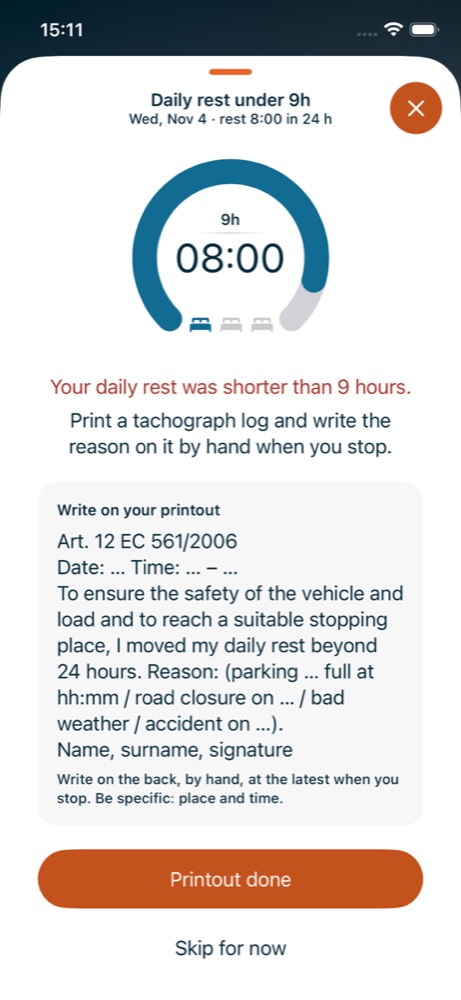
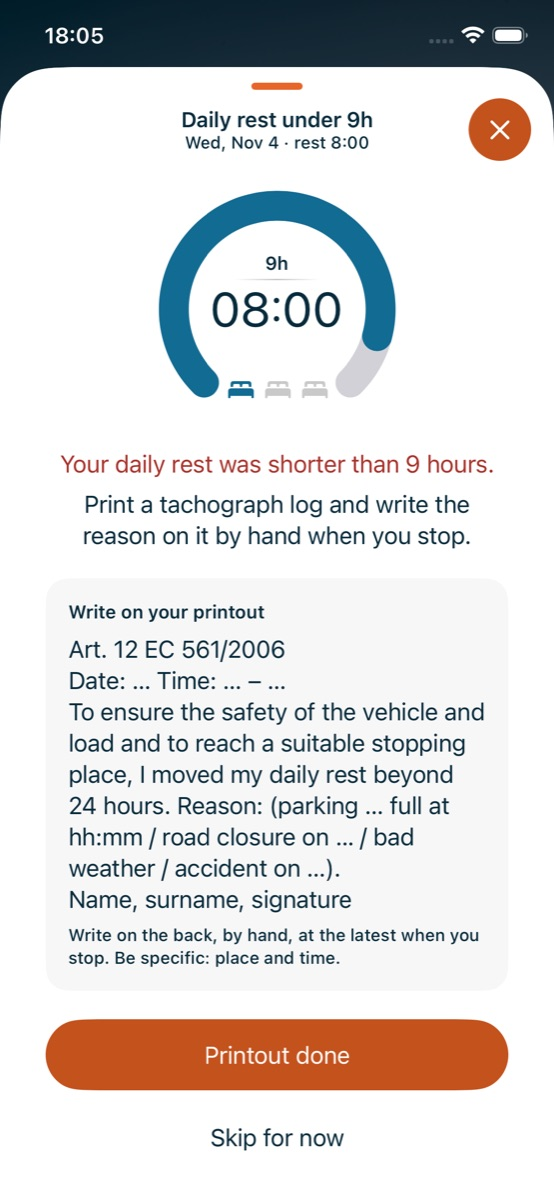
fix: rest after a shift past its limit is judged in full (decision 22)
A duty period past its 13/15 h limit is now one deviation for its window.
The rest after it is measured from close to the next start, not clipped by
the 24 h window: under 9 h (a reduction left) or under 11 h (none left) is a
second deviation, otherwise none. A rest still running is not judged. Shifts
within their limit keep the R-D02 window rule. The reduced-rest counter is
unchanged.

Copy: the short-rest title and red line use the required hours ("under 11h"
when no reduction is left, pending approval); "in 24 h" is dropped from the
sheet subtitle.

Tests: Serhii's 29.10 case (9:07 as the third reduced rest → 1 deviation,
counter 3), 7:00 → 2, 9:07 with none left → 2, within-limit shift keeps the
window result, running rest not judged; Day summary count matches the
Violations tab. V04/V10/weekly-rest tests rewritten for the new rule.

Changed region(s): [[0.2733, 0.093, 0.7289, 0.124], [0.0911, 0.0, 0.1822, 0.062]]

diff --git a/TachoBookTests/ViolationRulesTests.swift b/TachoBookTests/ViolationRulesTests.swift
@@ -121,18 +121,14 @@ struct ViolationRulesTests {
 
     // MARK: - Daily rest under 9 h in its window (R-D02, R-D07)
 
-    @Test func v04RestShortOfNineHoursByOneMinute() throws {
-        // A = 12.10 06:00; rest 21:01 → 13.10 08:01: only 8:59 before D = 13.10 06:00.
+    @Test func v04AfterAShiftPastItsLimitTheWholeRestCounts() throws {
+        // A = 12.10 06:00; rest 21:01 → 13.10 08:01: 8:59 before D = 13.10 06:00, 11:00 in full. The late close
+        // passes the 15 h limit by a minute: one deviation; the rest is judged in full (decision 22, not V04).
         let anchor = date(12, 6)
         let shift = period(anchor, date(12, 21, 1))
         let found = violations(history(used: 1, endingAt: anchor) + [shift, period(date(13, 8, 1))], now: date(13, 9))
-        let rest = try #require(found.first { $0.kind == .shortRest })
-        #expect(rest.restSeconds == 8 * 3600 + 59 * 60)
-        #expect(rest.began == date(12, 21, 1))
-        #expect(rest.limitHours == 9)
-        #expect(rest.key == ViolationKey(periodID: shift.id, kind: .shortRest))
-        // The late close also passes the 15 h limit by a minute: both rules are kept, each as recorded.
-        #expect(found.contains { $0.kind == .dutyLimit && $0.overtimeSeconds == 60 })
+        #expect(found.map(\.kind) == [.dutyLimit])
+        #expect(found.first?.overtimeSeconds == 60)
     }
 
     @Test func shortRestAfterANormalShift() throws {
@@ -142,6 +138,90 @@ struct ViolationRulesTests {
         let rest = try #require(found.first)
         #expect(rest.kind == .shortRest)
         #expect(rest.restSeconds == 8 * 3600)
+    }
+
+    // MARK: - Rest after a shift past its limit (decision 22, 07.11.2026)
+
+    /// Serhii's device case: 29.10.2026 05:13–21:30 (16:17), then the next start after `rest`.
+    private func limitPassedDay(used: Int, rest: TimeInterval) -> (periods: [DutyPeriod], shift: DutyPeriod, now: Date) {
+        let anchor = date(29, 5, 13)
+        let shift = period(anchor, date(29, 21, 30))
+        let next = date(29, 21, 30).addingTimeInterval(rest)
+        return (history(used: used, endingAt: anchor) + [shift, period(next)], shift, next.addingTimeInterval(1800))
+    }
+
+    @Test func decision22NineOhSevenAsTheThirdReducedRestIsOneDeviation() throws {
+        // Only 7:43 of the 9:07 rest fall before 30.10 05:13; it used to show 2 violations.
+        let day = limitPassedDay(used: 2, rest: 9 * hour + 7 * 60)
+        let found = violations(day.periods, now: day.now)
+        #expect(found.map(\.kind) == [.dutyLimit])
+        #expect(found.first?.limitHours == 15)
+        #expect(found.first?.overtimeSeconds == 1 * 3600 + 17 * 60)
+
+        // The rest counts as the third reduced rest.
+        let model = model(day.periods)
+        #expect(model.reducedRestsUsed == 3)
+        #expect(model.homeReducedRests(now: day.now) == 3)
+        #expect(model.historyReducedRests(onDay: date(29, 0), now: day.now, calendar: calendar) == 3)
+        // The Violations tab and the History Day summary show the same count.
+        #expect(model.violations(now: day.now, calendar: calendar).count == 1)
+        let summary = DaySummary(model: model, day: date(29, 0), now: day.now, calendar: calendar)
+        #expect(summary.violations.count == 1)
+        #expect(summary.subtitle.hasSuffix(" · 1 violation"))
+    }
+
+    @Test func decision22SevenHourRestIsASecondDeviation() throws {
+        let day = limitPassedDay(used: 2, rest: 7 * hour)
+        let found = violations(day.periods, now: day.now)
+        #expect(Set(found.map(\.kind)) == [.dutyLimit, .shortRest])
+        let rest = try #require(found.first { $0.kind == .shortRest })
+        #expect(rest.key == ViolationKey(periodID: day.shift.id, kind: .shortRest))
+        #expect(rest.limitHours == 9)
+        #expect(rest.restSeconds == 7 * 3600)
+        #expect(rest.began == date(29, 21, 30))
+
+        let model = model(day.periods)
+        #expect(model.violations(now: day.now, calendar: calendar).count == 2)
+        let summary = DaySummary(model: model, day: date(29, 0), now: day.now, calendar: calendar)
+        #expect(summary.violations.count == 2)
+        #expect(summary.subtitle.hasSuffix(" · 2 violations"))
+    }
+
+    @Test func decision22NineOhSevenWithNoReductionLeftIsASecondDeviation() throws {
+        // 3 of 3 used: the limit is 13 h and the rest after it must be 11 h (R-D04).
+        let day = limitPassedDay(used: 3, rest: 9 * hour + 7 * 60)
+        let found = violations(day.periods, now: day.now)
+        #expect(found.count == 2)
+        let duty = try #require(found.first { $0.kind == .dutyLimit })
+        #expect(duty.limitHours == 13)
+        let rest = try #require(found.first { $0.kind == .shortRest })
+        #expect(rest.limitHours == 11)
+        #expect(rest.restSeconds == 9 * 3600 + 7 * 60)
+
+        let model = model(day.periods)
+        let summary = DaySummary(model: model, day: date(29, 0), now: day.now, calendar: calendar)
+        #expect(summary.violations.count == model.violations(now: day.now, calendar: calendar).count)
+        // 11 h in full is enough.
+        let enough = limitPassedDay(used: 3, rest: 11 * hour)
+        #expect(violations(enough.periods, now: enough.now).map(\.kind) == [.dutyLimit])
+    }
+
+    @Test func decision22RestStillRunningIsNotJudged() {
+        // Resting since 21:30 past the window's end (30.10 05:13): the rest can still reach 9 h.
+        let anchor = date(29, 5, 13)
+        let periods = history(used: 2, endingAt: anchor) + [period(anchor, date(29, 21, 30))]
+        #expect(violations(periods, now: date(30, 6)).map(\.kind) == [.dutyLimit])
+        #expect(violations(periods, now: date(30, 12)).map(\.kind) == [.dutyLimit])
+    }
+
+    @Test func decision22ShiftWithinItsLimitKeepsTheWindowRule() throws {
+        // 06:00–21:00 is 15:00, within 15 h at 2 of 3: a rest of 8:59 is short by the R-D02 window rule.
+        let anchor = date(12, 6)
+        let found = violations(history(used: 2, endingAt: anchor) + [period(anchor, date(12, 21)), period(date(13, 5, 59))],
+                               now: date(13, 7))
+        #expect(found.map(\.kind) == [.shortRest])
+        #expect(found.first?.limitHours == 9)
+        #expect(found.first?.restSeconds == 8 * 3600 + 59 * 60)
     }
 
     @Test func nineHoursInTheWindowIsNotADeviation() {
@@ -161,26 +241,28 @@ struct ViolationRulesTests {
         let anchor = date(12, 6)
         let shift = period(anchor, date(12, 21, 5), pauses: [pause(date(12, 20, 45), date(12, 20, 50), confirmed: nil)])
         let current = history(used: 1, endingAt: anchor) + [shift]
-        // While the rest runs before D (13.10 06:00) its classification is provisional.
-        let duringRest = violations(current, now: date(13, 5))
-        #expect(duringRest.map(\.kind) == [.dutyLimit], "15:05 of duty passed the 15 h limit")
-        #expect(duringRest.first?.overtimeSeconds == 5 * 60)
-        // Once D has passed, 8:55 inside the window is final; the 9 h count from 21:05, not 20:45.
-        let rest = try #require(violations(current, now: date(13, 6, 1)).first { $0.kind == .shortRest })
+        // 15:05 of duty passed the 15 h limit; the running rest is not judged, even past D (decision 22).
+        for now in [date(13, 5), date(13, 6, 1)] {
+            let found = violations(current, now: now)
+            #expect(found.map(\.kind) == [.dutyLimit])
+            #expect(found.first?.overtimeSeconds == 5 * 60)
+        }
+        // Next start at D: 8:55 in full is short; the 9 h count from 21:05, not 20:45.
+        let rest = try #require(violations(current + [period(date(13, 6))], now: date(13, 7))
+            .first { $0.kind == .shortRest })
         #expect(rest.restSeconds == 8 * 3600 + 55 * 60)
         #expect(rest.began == date(12, 21, 5))
     }
 
-    @Test func restRunningIntoWeeklyIsJudgedInItsWindow() throws {
-        // Close at A + 16 h, then a 30 h rest: only 8 h of it are inside the window.
+    @Test func restRunningIntoWeeklyAfterALimitPassedShiftIsNoSecondDeviation() {
+        // Close at A + 16 h, then a 30 h rest: only 8 h of it are inside the window, 30 h in full (decision 22).
         let anchor = date(12, 6)
         let found = violations([period(anchor, date(12, 22)), period(date(14, 4))], now: date(14, 5))
-        let rest = try #require(found.first { $0.kind == .shortRest })
-        #expect(rest.restSeconds == 8 * 3600)
+        #expect(found.map(\.kind) == [.dutyLimit])
     }
 
     @Test func newestFirst() {
-        let found = violations([period(date(10, 6), date(10, 22)), period(date(11, 8), date(11, 18)), period(date(12, 1))],
+        let found = violations([period(date(10, 6), date(10, 22)), period(date(11, 6), date(11, 18)), period(date(12, 1))],
                                now: date(12, 2))
         #expect(found.map(\.began) == found.map(\.began).sorted(by: >))
         #expect(found.count == 3)

diff --git a/TachoBook/Violations.swift b/TachoBook/Violations.swift
@@ -10,7 +10,8 @@ import Foundation
 public enum ViolationKind: String, Codable, Sendable, CaseIterable {
     /// The duty period ran past its applicable 13 h or 15 h limit (R-D05). Covers a fourth reduced rest (V05).
     case dutyLimit
-    /// The daily rest after a duty period had less than 9 h inside its 24 h window (R-D02, R-D07, V04).
+    /// The daily rest after a duty period had less than 9 h inside its 24 h window (R-D02, R-D07, V04). After a duty
+    /// period past its limit, the full rest was under 9 h, or under 11 h with no reduction left (decision 22).
     case shortRest
 }
 
@@ -47,13 +48,16 @@ public struct Violation: Identifiable, Equatable, Sendable {
     /// When it began: the moment the limit passed, or the start of the short rest. A printout cannot be earlier
     /// (decision 19).
     public var began: Date
-    /// 13 or 15 for a duty limit; 9 for a short rest.
+    /// 13 or 15 for a duty limit; 9 for a short rest, or 11 after a duty period past its limit with no reduction
+    /// left (decision 22).
     public var limitHours: Int
     /// The duty period's start: the anchor of its 24 h window.
     public var dutyStart: Date
     /// Duty from start to close, or to now while the shift is still open.
     public var dutySeconds: Int
-    /// Duty limit: the rest time inside the window is not used (0). Short rest: the rest inside the 24 h window.
+    /// Duty limit: not used (0). Short rest: the rest inside the 24 h window, or the full rest after a duty period
+    /// past its limit (decision 22). Both are the whole rest: a rest under 9 h after a duty within its limit always
+    /// fits in the window.
     public var restSeconds: Int
     /// The shift is still open and the overtime keeps growing.
     public var isOngoing: Bool
@@ -90,11 +94,14 @@ public enum ViolationRules {
 
             // Duty past the limit: close time, or now while the current shift is open. An archived record without a
             // close is incomplete: unknown, not a deviation.
+            var passedLimit: DutyLimitAvailability?
             if let dutyEnd = period.end ?? (isCurrent ? now : nil) {
                 let used = ReducedRestCounter.usedCount(periods: Array(timed[...index]))
-                let limit = applicableLimitHours(ReducedRestCounter.availability(used: used, period: period))
+                let availability = ReducedRestCounter.availability(used: used, period: period)
+                let limit = applicableLimitHours(availability)
                 let limitEnd = HomeTimeline.adding(hours: limit, to: anchor)
                 if dutyEnd > limitEnd {
+                    passedLimit = availability
                     found.append(Violation(
                         key: ViolationKey(periodID: period.id, kind: .dutyLimit), day: day, began: limitEnd,
                         limitHours: limit, dutyStart: anchor,
@@ -104,15 +111,23 @@ public enum ViolationRules {
             }
 
             // The final rest after the last close. Pauses before a Resume are not rests of their own (V09).
-            // A shift past 15 h always leaves less than 9 h in its window: both rows are kept (Serhii, 07.11.2026).
-            if let restStart = period.end, let inWindow = restInWindow(after: period, at: index, in: timed,
-                                                                      isCurrent: isCurrent, now: now),
-               inWindow < minimumRest {
+            guard let restStart = period.end else { continue }
+            let rest: (seconds: TimeInterval, required: TimeInterval)?
+            if let passedLimit {
+                // Decision 22 (Serhii, 07.11.2026; departs from V04/R-D07 for this case): past its limit the duty
+                // period is one deviation for its window. The rest after it is judged in full, from close to the
+                // next start, not clipped by the window: 9 h with a reduction left, else 11 h (R-D04).
+                rest = fullRest(after: index, in: timed).map { ($0, requiredRest(after: passedLimit)) }
+            } else {
+                rest = restInWindow(after: period, at: index, in: timed, isCurrent: isCurrent, now: now)
+                    .map { ($0, minimumRest) }
+            }
+            if let rest, rest.seconds < rest.required {
                 found.append(Violation(
                     key: ViolationKey(periodID: period.id, kind: .shortRest), day: day, began: restStart,
-                    limitHours: Int(minimumRest / 3600), dutyStart: anchor,
+                    limitHours: Int(rest.required / 3600), dutyStart: anchor,
                     dutySeconds: HomeTimeline.elapsedSeconds(from: anchor, to: restStart),
-                    restSeconds: Int(inWindow), isOngoing: false))
+                    restSeconds: Int(rest.seconds), isOngoing: false))
             }
         }
         return found.sorted { ($0.began, $0.kind.rawValue) > ($1.began, $1.kind.rawValue) }
@@ -130,6 +145,20 @@ public enum ViolationRules {
         let windowEnd = anchor.addingTimeInterval(window)
         guard isCurrent, now >= windowEnd else { return nil }
         return ReducedRestCounter.secondsInWindow(start: restStart, end: now, anchor: anchor)
+    }
+
+    /// The whole rest after the duty period at `index`, from its close to the next start (decision 22). nil while
+    /// the rest still runs (it can still reach the required hours) or the next start is unknown (R-U01).
+    static func fullRest(after index: Int, in timed: [DutyPeriod]) -> TimeInterval? {
+        guard let restStart = timed[index].end, index + 1 < timed.count,
+              let restEnd = timed[index + 1].start else { return nil }
+        return max(0, restEnd.timeIntervalSince(restStart))
+    }
+
+    /// The rest due after a duty period past its limit (decision 22, R-D04): 9 h while a reduction or a confirmed
+    /// split is left, 11 h when none is. While that is unknown, 9 h: only a rest under 9 h is certain (R-U01).
+    static func requiredRest(after availability: DutyLimitAvailability) -> TimeInterval {
+        availability == .thirteenHoursOnly ? ReducedRestCounter.regularRest : minimumRest
     }
 }
 

diff --git a/TachoBook/ViolationSheet.swift b/TachoBook/ViolationSheet.swift
@@ -8,8 +8,10 @@ import SwiftUI
 /// Every text the violation screens show, from Figma Flow 3, Flow 4 and Flow 3 View History, and spec Appendix G.
 /// Dynamic parts come from the records; dates follow the device locale.
 public enum ViolationCopy {
+    /// "Daily rest under 11h" (11 h due with no reduction left, decision 22) follows Figma's 9 h pattern; awaiting
+    /// Serhii's approval in PR #19.
     public static func title(_ violation: Violation) -> String {
-        violation.kind == .dutyLimit ? "Shift limit passed" : "Daily rest under 9h"
+        violation.kind == .dutyLimit ? "Shift limit passed" : "Daily rest under \(violation.limitHours)h"
     }
 
     /// Flow 3 · 02/04 (over Home) names the limit; the Flow 4 sheet uses the row title.
@@ -24,7 +26,8 @@ public enum ViolationCopy {
             + HomeTimeline.clockLabel(violation.began, relativeTo: now, calendar: calendar)
     }
 
-    /// Flow 4: "Mon 19 Oct · over by 0:30 since 18:40" or "Sun 18 Oct · rest 8:15 in 24 h".
+    /// Flow 4: "Mon 19 Oct · over by 0:30 since 18:40" or "Sun 18 Oct · rest 8:15". Figma's "in 24 h" is left out:
+    /// no copy about the 24 h window (decision 22); the time shown is always the whole rest.
     public static func sheetSubtitle(_ violation: Violation, calendar: Calendar = .current) -> String {
         let day = weekdayDayMonth(violation.day, calendar: calendar)
         switch violation.kind {
@@ -32,14 +35,14 @@ public enum ViolationCopy {
             return "\(day) · over by \(duration(violation.overtimeSeconds)) since "
                 + HomeTimeline.clockLabel(violation.began, relativeTo: violation.day, calendar: calendar)
         case .shortRest:
-            return "\(day) · rest \(duration(violation.restSeconds)) in 24 h"
+            return "\(day) · rest \(duration(violation.restSeconds))"
         }
     }
 
     public static func redLine(_ violation: Violation) -> String {
         violation.kind == .dutyLimit
             ? "You\u{2019}ve passed your \(violation.limitHours)-hour shift limit."
-            : "Your daily rest was shorter than 9 hours."
+            : "Your daily rest was shorter than \(violation.limitHours) hours."
     }
 
     public static let reminder = "Print a tachograph log and write the reason on it by hand when you stop."

diff --git a/TachoBookTests/ViolationCopyTests.swift b/TachoBookTests/ViolationCopyTests.swift
@@ -35,8 +35,19 @@ struct ViolationCopyTests {
 
         let rest = violation(.shortRest)
         #expect(ViolationCopy.title(rest) == "Daily rest under 9h")
-        #expect(ViolationCopy.sheetSubtitle(rest, calendar: calendar) == "Mon 19 Oct · rest 8:15 in 24 h")
+        #expect(ViolationCopy.sheetSubtitle(rest, calendar: calendar) == "Mon 19 Oct · rest 8:15")
         #expect(ViolationCopy.redLine(rest) == "Your daily rest was shorter than 9 hours.")
+
+        // After a shift past its limit with no reduction left, 11 h are due (decision 22).
+        var eleven = rest
+        eleven.limitHours = 11
+        #expect(ViolationCopy.title(eleven) == "Daily rest under 11h")
+        #expect(ViolationCopy.redLine(eleven) == "Your daily rest was shorter than 11 hours.")
+        // No copy about the 24 h window anywhere (decision 22).
+        for text in [ViolationCopy.title(rest), ViolationCopy.sheetSubtitle(rest, calendar: calendar),
+                     ViolationCopy.redLine(rest), ViolationCopy.title(eleven), ViolationCopy.redLine(eleven)] {
+            #expect(!text.contains("24"), "\(text)")
+        }
     }
 
     @Test func rowAndPrintoutTexts() {

diff --git a/TachoBookTests/HistoryMarkersTests.swift b/TachoBookTests/HistoryMarkersTests.swift
@@ -116,7 +116,9 @@ struct HistoryMarkersTests {
         let model = model([(date(10, 6), date(10, 14), nil), (date(12, 6), date(12, 22), nil),
                            (date(14, 8), date(14, 16), nil)])
         let now = date(15, 12)
-        // The 16 h shift with 8 h of rest in its window is also a recorded deviation (violation counter, decision 1).
+        // The 16 h shift passed its 15 h limit: a recorded deviation (violation counter, decision 1); its 34 h rest
+        // is judged in full, so it is the only one (decision 22).
+        #expect(model.violations(now: now, calendar: calendar).filter { $0.day == day(12) }.map(\.kind) == [.dutyLimit])
         #expect(model.historyMarkers(on: day(12), now: now, calendar: calendar) == [.reducedRest, .violation])
         #expect(model.historyReducedRests(onDay: day(12), now: now, calendar: calendar) == 1)
         #expect(model.historyReducedRests(onDay: day(14), now: now, calendar: calendar) == 0)

diff --git a/TachoBookUITests/ViolationsUITests.swift b/TachoBookUITests/ViolationsUITests.swift
@@ -28,7 +28,7 @@ final class ViolationsUITests: XCTestCase {
         rows.element(boundBy: 0).tap()
         XCTAssertTrue(app.staticTexts["sheetTitle"].waitForExistence(timeout: 5))
         XCTAssertEqual(app.staticTexts["sheetTitle"].label, "Daily rest under 9h")
-        XCTAssertTrue(app.staticTexts["sheetSubtitle"].label.hasSuffix("· rest 8:00 in 24 h"), app.staticTexts["sheetSubtitle"].label)
+        XCTAssertTrue(app.staticTexts["sheetSubtitle"].label.hasSuffix("· rest 8:00"), app.staticTexts["sheetSubtitle"].label)
         XCTAssertEqual(app.staticTexts["violationRedLine"].label, "Your daily rest was shorter than 9 hours.")
         XCTAssertTrue(app.staticTexts["Print a tachograph log and write the reason on it by hand when you stop."].exists)
         XCTAssertTrue(app.descendants(matching: .any)["printoutNote"].label.contains("Art. 12 EC 561/2006"))
